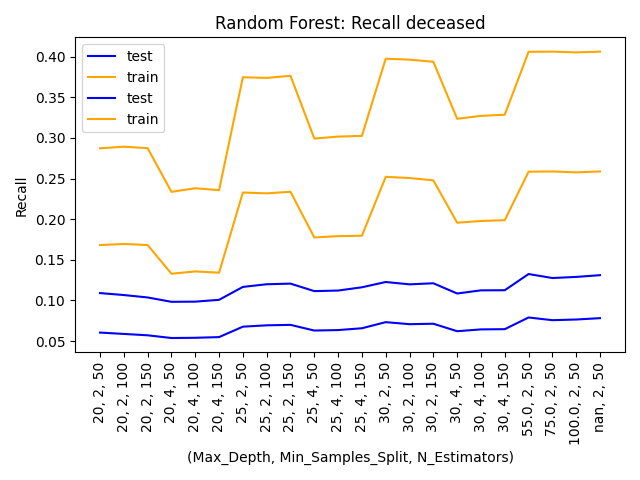
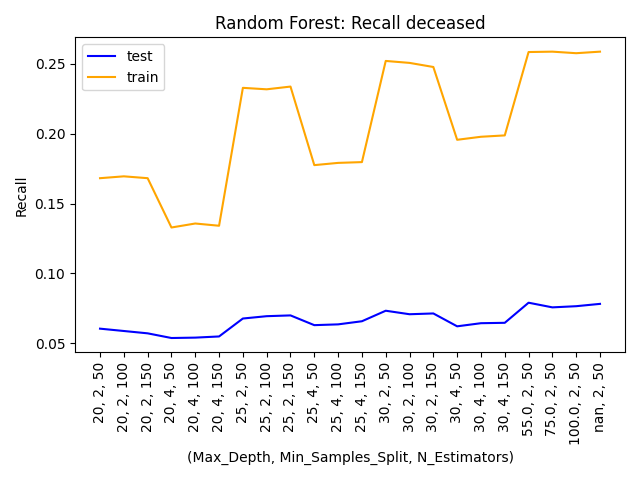
fixed multiple line error in plts for rf

diff --git a/code/src/main.py b/code/src/main.py
@@ -66,13 +66,13 @@ def main():
     # runRandomForestClassifier(x_train, y_train, x_val, y_val, test_data)
     #random_forest_test_hparam(x_train, y_train, x_val, y_val, test_data)               #Hyperparameter tuing
     #random_forest_predict(x_train=x_train, y_train=y_train, test_data=test_data)       #prediction of onto testing data
-    #plot_ranforest_data()                                                              # plot the data
+    plot_ranforest_data()                                                              # plot the data
 
     #For the best model
     # lgbm_predict(x_train, y_train, x_val, y_val, test_data)
     # print("checking...")
     
-    check_if_file_valid('../results/predictions.txt')   
+    #check_if_file_valid('../results/predictions.txt')   
 
 if __name__ == "__main__":
     main()

diff --git a/code/src/models.py b/code/src/models.py
@@ -520,7 +520,7 @@ def plot_ranforest_data():
     
     param_label = '(Max_Depth, Min_Samples_Split, N_Estimators)'
     print("plotting...")
-    plt.figure(1)
+    plt.figure()
     plt.title("Random Forest: F1_Score on Deceased ")
     plt.xlabel(param_label)
     plt.ylabel("F1_Score")
@@ -533,7 +533,7 @@ def plot_ranforest_data():
     plt.savefig(f1score_save)
 
     
-    plt.figure(1)
+    plt.figure()
     plt.title("Random Forest: Recall deceased")
     plt.xlabel(param_label)
     plt.ylabel("Recall")
@@ -545,7 +545,7 @@ def plot_ranforest_data():
     recall_save = '../plots/' + 'RandomForest' + '_Recall_plot.png'
     plt.savefig(recall_save)
 
-    plt.figure(1)
+    plt.figure()
     plt.title("Random Forest: Accuracy ")
     plt.xlabel(param_label)
     plt.ylabel("Accuracy")
